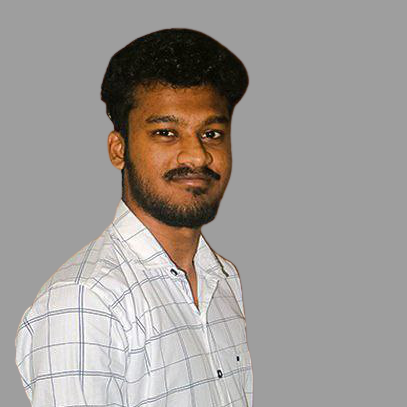
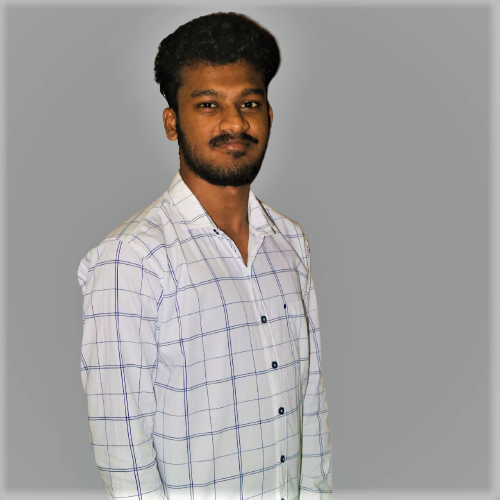
update Profiles

diff --git a/team.html b/team.html
@@ -293,7 +293,7 @@
 						<div class="member d-flex align-items-start">
 							<div class="pic">
 								<a href="Shaz.html">
-									<img src="assets/img/team/Shaz.png" class="img-fluid" alt="M. A. F. M. SHAZRY">
+									<img src="assets/img/team/ShazSmall.png" class="img-fluid" alt="M. A. F. M. SHAZRY">
 								</a>
 							</div>
 							<div class="member-info">
@@ -340,7 +340,7 @@
 						<div class="member d-flex align-items-start">
 							<div class="pic">
 								<a href="Shashini_Sahara.html">
-									<img src="assets/img/team/Shashini_Sahara.png" class="img-fluid" alt="Shashini_Sahara">
+									<img src="assets/img/team/Shashini_SaharaSmall.png" class="img-fluid" alt="Shashini_Sahara">
 								</a>
 							</div>
 							<div class="member-info">
